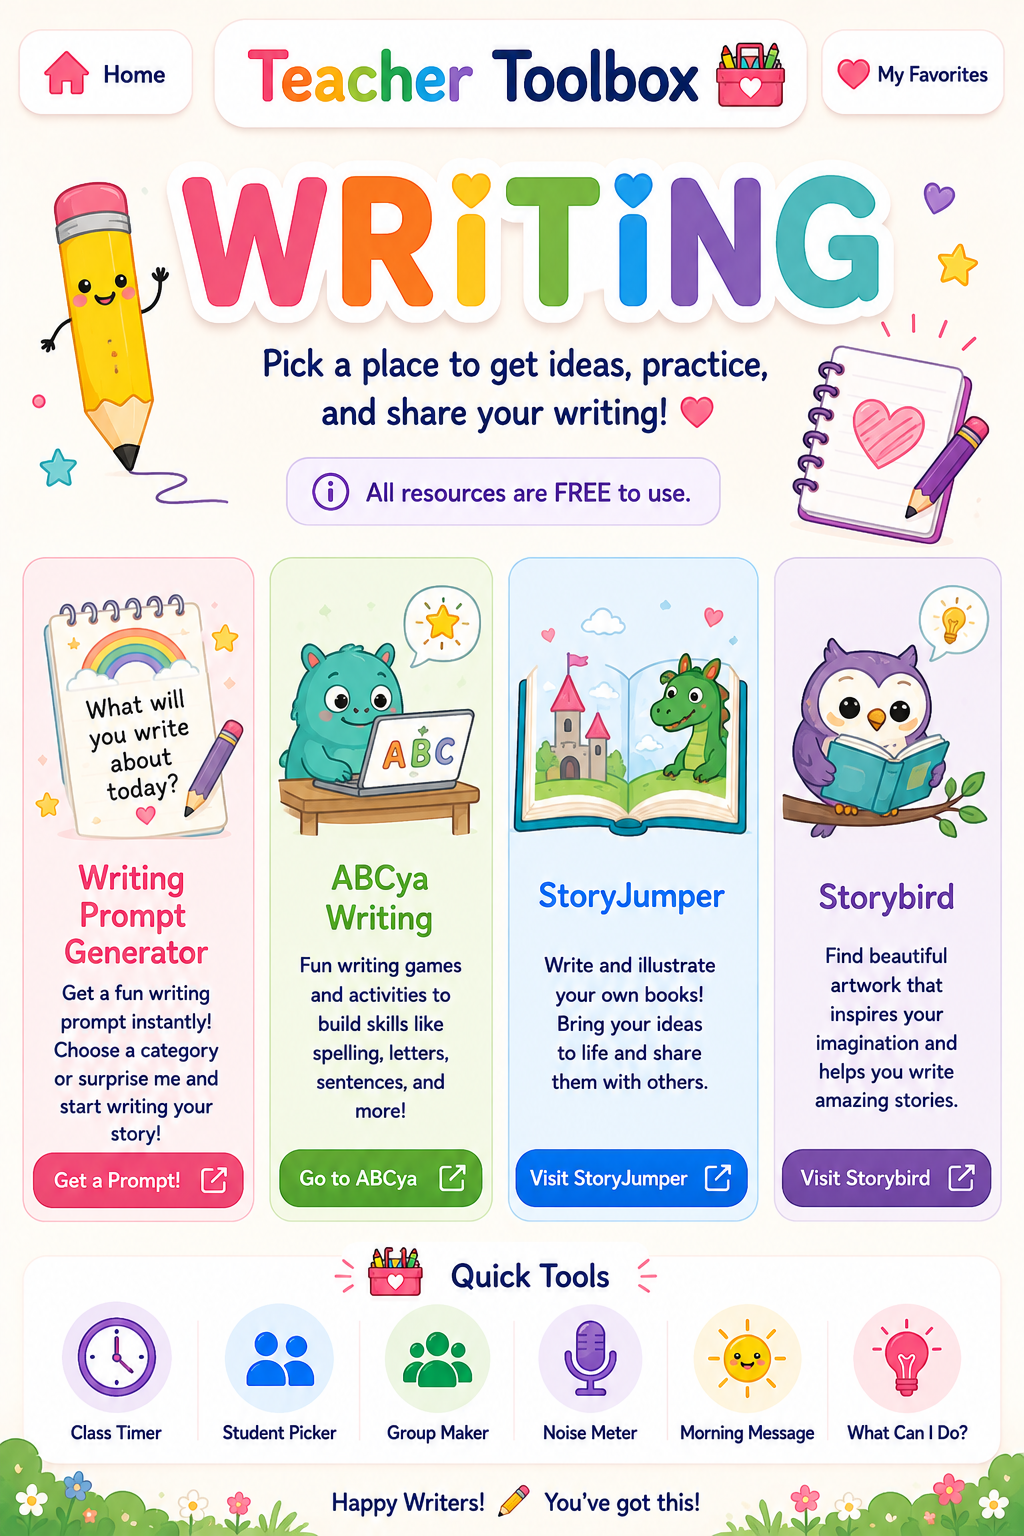
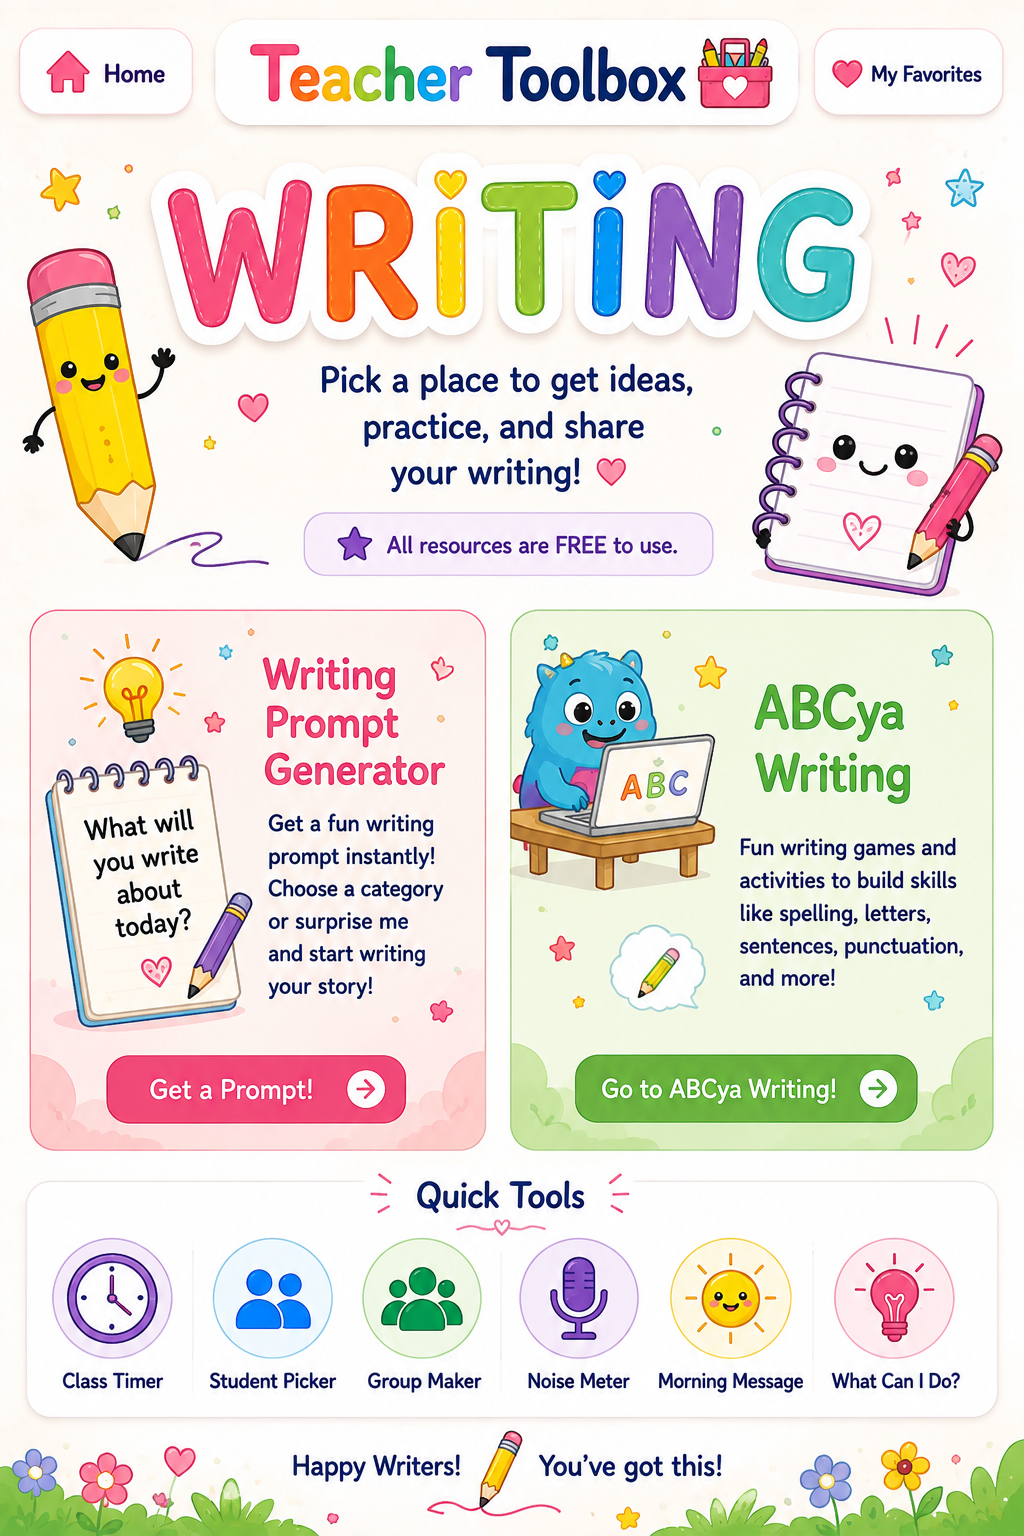
Add files via upload

diff --git a/writing.html b/writing.html
@@ -11,24 +11,22 @@ html,body{margin:0;min-height:100%;background:#fff8f3}
 body{display:flex;justify-content:center;align-items:flex-start}
 .stage{position:relative;width:min(100vw,1024px);aspect-ratio:2/3;background:#fff;overflow:hidden}
 .stage>img{position:absolute;inset:0;width:100%;height:100%;display:block;user-select:none;-webkit-user-drag:none}
-.hit{position:absolute;z-index:8;display:block;border-radius:18px;outline:none;-webkit-tap-highlight-color:transparent}
+.hit{position:absolute;z-index:8;display:block;border-radius:22px;outline:none;-webkit-tap-highlight-color:transparent}
 .hit:focus-visible{box-shadow:0 0 0 4px rgba(255,79,145,.65)}
-.home{left:1.8%;top:1.8%;width:16.2%;height:5.5%}
-.favorites{left:80.0%;top:1.8%;width:17.9%;height:5.5%}
+.home{left:1.8%;top:1.8%;width:17.2%;height:5.6%}
+.favorites{left:80.0%;top:1.8%;width:18.0%;height:5.6%}
 
-/* Four writing cards */
-.prompts{left:2.0%;top:36.2%;width:23.6%;height:43.2%}
-.abcya{left:26.4%;top:36.2%;width:22.7%;height:43.2%}
-.storyjumper{left:49.7%;top:36.2%;width:24.2%;height:43.2%}
-.storybird{left:75.0%;top:36.2%;width:22.8%;height:43.2%}
+/* Main cards */
+.prompts{left:2.7%;top:39.7%;width:44.9%;height:35.2%}
+.abcya{left:49.8%;top:39.7%;width:47.2%;height:35.2%}
 
 /* Quick tools */
-.timer{left:4.5%;top:84.1%;width:13.2%;height:10.2%}
-.picker{left:19.8%;top:84.1%;width:13.4%;height:10.2%}
-.group{left:35.0%;top:84.1%;width:13.5%;height:10.2%}
-.noise{left:50.3%;top:84.1%;width:13.5%;height:10.2%}
-.message{left:65.9%;top:84.1%;width:14.1%;height:10.2%}
-.whatdo{left:81.3%;top:84.1%;width:14.9%;height:10.2%}
+.timer{left:4.8%;top:80.5%;width:13.4%;height:10.8%}
+.picker{left:20.1%;top:80.5%;width:13.3%;height:10.8%}
+.group{left:35.4%;top:80.5%;width:13.4%;height:10.8%}
+.noise{left:50.7%;top:80.5%;width:13.3%;height:10.8%}
+.message{left:65.9%;top:80.5%;width:14.1%;height:10.8%}
+.whatdo{left:81.0%;top:80.5%;width:15.0%;height:10.8%}
 
 .toast{position:fixed;left:50%;bottom:20px;transform:translateX(-50%) translateY(15px);background:#26334f;color:white;padding:10px 16px;border-radius:999px;font:800 14px Arial,sans-serif;opacity:0;pointer-events:none;transition:.2s;z-index:50}
 .toast.show{opacity:1;transform:translateX(-50%) translateY(0)}
@@ -37,15 +35,13 @@ body{display:flex;justify-content:center;align-items:flex-start}
 </head>
 <body>
 <main class="stage" aria-label="Teacher Toolbox Writing page">
-<img src="writing-final-bg.png" alt="Teacher Toolbox Writing page with writing prompts, ABCya, StoryJumper, Storybird, and quick tools">
+<img src="writing-final-bg.png" alt="Teacher Toolbox Writing page with Writing Prompt Generator, ABCya Writing, and quick tools">
 
-<a class="hit home" href="index.html" aria-label="Home"></a>
+<a class="hit home" href="index.html?v=31" aria-label="Home"></a>
 <a class="hit favorites" href="#" data-coming="My Favorites" aria-label="My Favorites"></a>
 
-<a class="hit prompts" href="writing-prompts.html" aria-label="Writing Prompt Generator"></a>
+<a class="hit prompts" href="writing-prompts.html?v=2" aria-label="Writing Prompt Generator"></a>
 <a class="hit abcya" href="https://www.abcya.com/grades/1/language-arts" target="_blank" rel="noopener" aria-label="ABCya Writing"></a>
-<a class="hit storyjumper" href="https://www.storyjumper.com/main/classroom" target="_blank" rel="noopener" aria-label="StoryJumper"></a>
-<a class="hit storybird" href="https://storybird.com/" target="_blank" rel="noopener" aria-label="Storybird"></a>
 
 <a class="hit timer" href="timer.html" aria-label="Class Timer"></a>
 <a class="hit picker" href="student-picker.html" aria-label="Student Picker"></a>

diff --git a/index.html b/index.html
@@ -34,7 +34,7 @@ body{display:flex;justify-content:center;align-items:flex-start}
 <a class="hotspot home" href="./" aria-label="Home"></a>
 <a class="hotspot phonics" href="phonics.html?v=10" aria-label="Open Phonics Toolbox"></a>
 <a class="hotspot reading" href="reading.html?v=20" aria-label="Open Reading Toolbox"></a>
-<a class="hotspot writing" href="writing.html?v=1" aria-label="Open Writing Toolbox"></a>
+<a class="hotspot writing" href="writing.html?v=31" aria-label="Open Writing Toolbox"></a>
 <a class="hotspot favorites-nav" href="#" data-coming="My Favorites"></a>
 <a class="hotspot resources-nav" href="#" data-coming="My Resources"></a>
 <a class="hotspot students-nav" href="#" data-coming="My Students"></a>

diff --git a/writing-prompts.html b/writing-prompts.html
@@ -28,7 +28,7 @@ h1{text-align:center;font-size:clamp(42px,8vw,72px);margin:24px 0 4px;letter-spa
 <body>
 <div class="wrap">
   <div class="top">
-    <button class="btn home" onclick="location.href='writing.html'">← Writing</button>
+    <button class="btn home" onclick="location.href='writing.html?v=31'">← Writing</button>
     <button class="btn home" onclick="location.href='index.html'">🏠 Home</button>
   </div>
   <h1>Writing Prompts ✏</h1>
